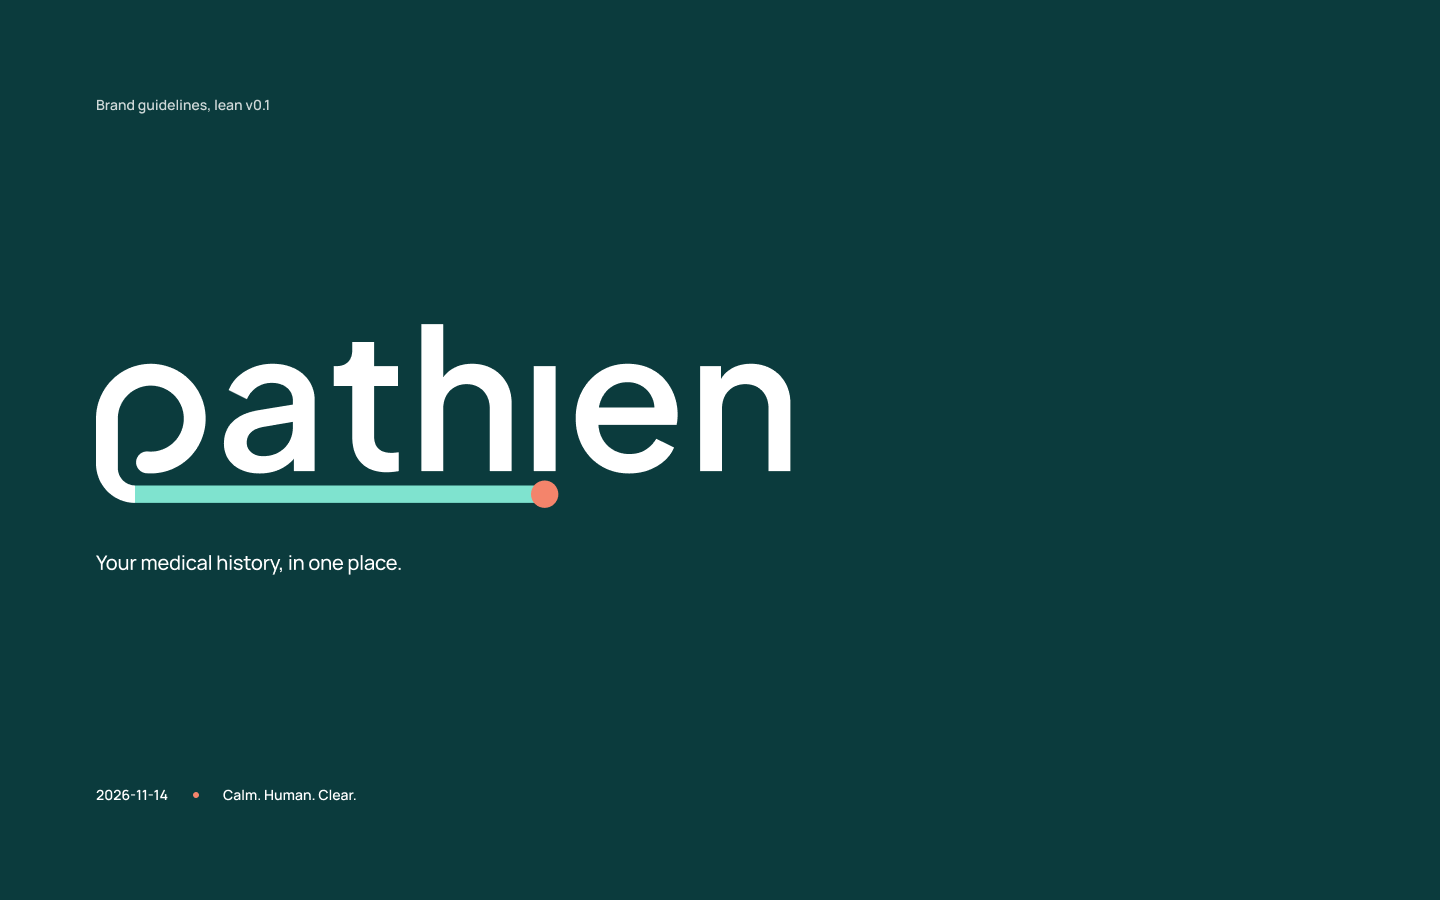
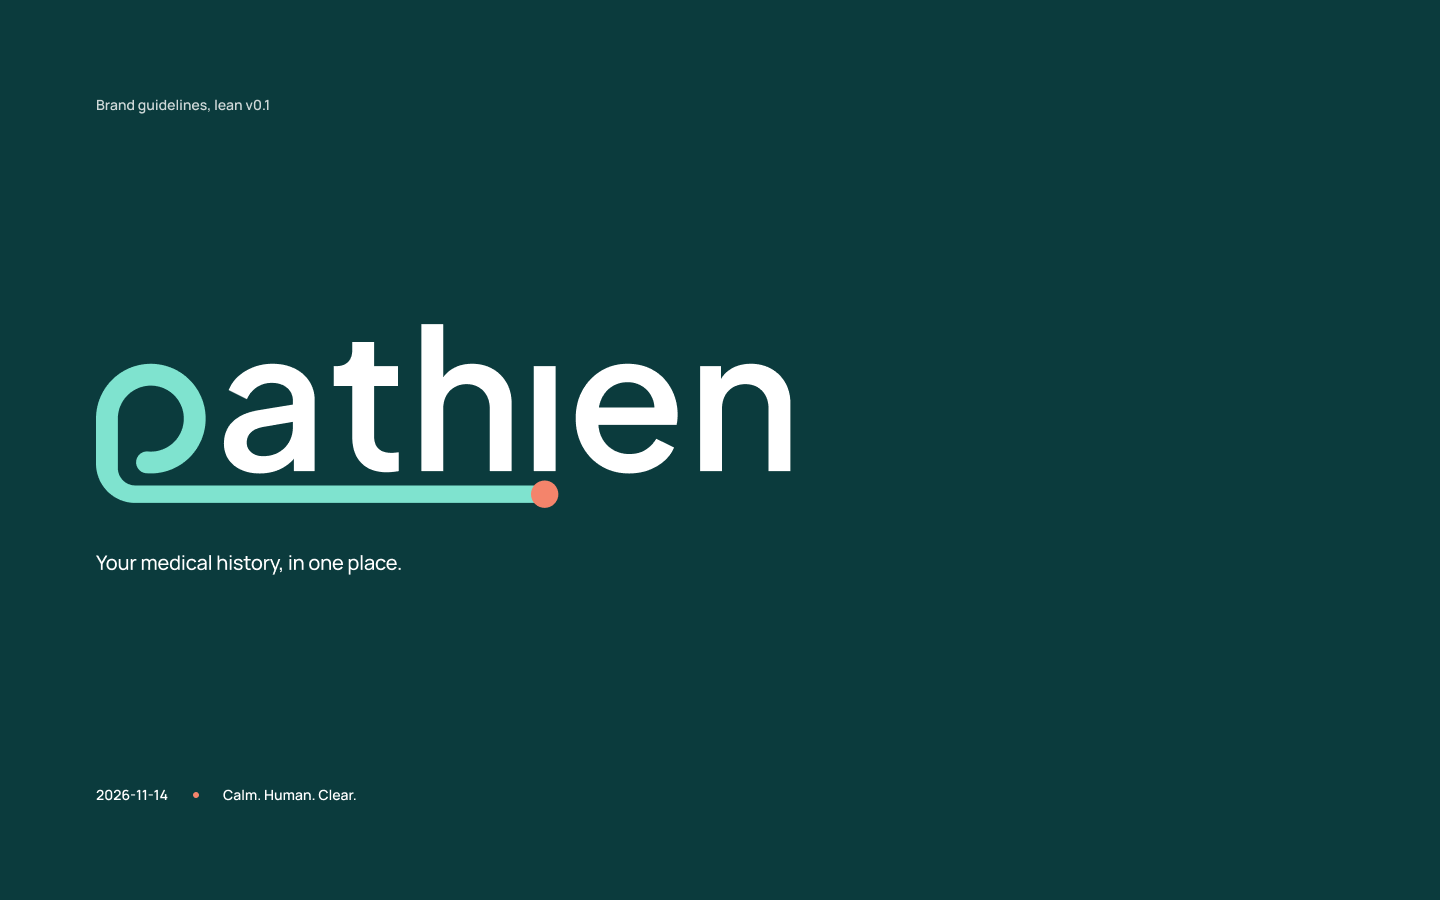
chore(brand): Pathien p and path as one teal stroke with a coral dot (MIN-4462) [Lane A]
Pix's redraw after the founder's "P should be like this" (2026-11-14):
the p and its path are one teal stroke (mint on dark), coral dot.
Updates the logo SVGs and previews in docs/brand, the Figma exports,
the brand guidelines colour table, and the landing's favicon, lockups
and apple-touch-icon. Assets only, no code.

MIN-4462

Changed region(s): [[0.0625, 0.4044, 0.1562, 0.56]]

diff --git a/docs/brand/brand-guidelines.md b/docs/brand/brand-guidelines.md
@@ -104,22 +104,24 @@ Name chosen by the founder, 2026-11-14: Pathien (pathien.health). Trademark clea
 | File | Use |
 |---|---|
 | `pathien-lockup.svg` | Default logo, primary colour version, on light backgrounds (air, white, mist) |
-| `pathien-lockup-mono.svg` | One-colour print, stamps, anything that cannot carry teal and coral: ink letters and p, 70% ink path, ink dot |
+| `pathien-lockup-mono.svg` | One-colour print, stamps, anything that cannot carry teal and coral: all ink, one colour: letters, p and path, dot |
 | `pathien-lockup-white.svg` | For dark grounds: teal-night, teal-600, photos with the teal-night overlay |
 | `pathien-wordmark.svg` | Same artwork as the lockup. The "p" is now part of the word, so wordmark and lockup are one logo; the file is kept only so existing links do not break. Do not use a version without the p |
-| `pathien-symbol.svg` | The p with a short path ending in the dot, alone: ink p, teal path, coral dot (avatars, social profile, small spots below 96px wide) |
+| `pathien-symbol.svg` | The p with a short path ending in the dot, alone: the p and its path as one teal stroke, coral dot (avatars, social profile, small spots below 96px wide) |
 | `pathien-app-icon.svg` | 1024 rounded square, air #F7FAFA ground with a hairline edge, the symbol centred. Round the corners only through the store's mask on iOS (use a square export there; `landing/public/brand/apple-touch-icon.png` is one) |
 | `favicon.svg` | 32 viewBox, same symbol with heavier weights so it holds at 16px |
 | `lockup@2x.png`, `app-icon-512.png`, `favicon-strip.png` | Previews only (white background; the strip shows 16, 32 and 48px at 8x). Use the SVGs |
 
 **Colour versions.**
-| Version | p and letters | Path | Dot |
-|---|---|---|---|
-| Primary (colour) | ink #12201F | teal-600 #0F766E | coral #F4846B |
-| Mono ink | ink #12201F | 70% ink #566463 | ink #12201F |
-| White | white #FFFFFF | mint #7FE3CF | coral #F4846B |
+The p and its path are one stroke in teal (mint on dark): one shape, no seam where the foot becomes the path.
 
-Primary and mono go on light grounds, white on dark. Contrast of the path: teal-600 on air 5.2:1, 70% ink on air 5.9:1, mint on teal-night 8.1:1, mint on teal-600 3.6:1 (graphic only; the letters carry the name). The coral dot is 2.4:1 on air and 4.9:1 on teal-night; it is a decoration, never the only carrier of meaning. The icon ground is air, not teal: every close match found in the logo check is a white mark on a teal or green square.
+| Version | p and path (one stroke) | Letters "athıen" | Dot |
+|---|---|---|---|
+| Primary (colour) | teal-600 #0F766E | ink #12201F | coral #F4846B |
+| Mono ink | ink #12201F | ink #12201F | ink #12201F |
+| White | mint #7FE3CF | white #FFFFFF | coral #F4846B |
+
+Primary and mono go on light grounds, white on dark. Contrast of the p and path: teal-600 on air 5.2:1, ink on air 16.0:1 (mono), mint on teal-night 8.1:1, mint on teal-600 3.6:1 (graphic only; the letters carry the name). The coral dot is 2.4:1 on air and 4.9:1 on teal-night; it is a decoration, never the only carrier of meaning. The icon ground is air, not teal: every close match found in the logo check is a white mark on a teal or green square.
 
 **Clear space.** On all sides at least x, the x-height of the "a" in the wordmark, which is about 57% of the lockup's height. Keep other text, edges and images out of that zone.
 
@@ -128,7 +130,7 @@ Primary and mono go on light grounds, white on dark. Contrast of the path: teal-
 **Don'ts.**
 - Do not add a dot back on the i. The dot under the i is the path's end; a dot above it makes two.
 - Do not separate the p from the word, or use the word without its p. Do not crop the path off.
-- Do not recolour the path outside teal, mint or 70% ink. Coral only for the dot (primary and white versions); the mono version has no coral. No gradients.
+- Do not recolour the p and path outside teal or mint (ink in mono), and do not split them into two colours. Coral only for the dot (primary and white versions); the mono version has no coral. No gradients.
 - Do not stretch, squash, rotate or outline it.
 - No shadows, glows, bevels, blur or other effects.
 - Do not retype the wordmark in a font, change its weight or tracking, or capitalise it ("Pathien" in running text, "pathien" only in the logo).
